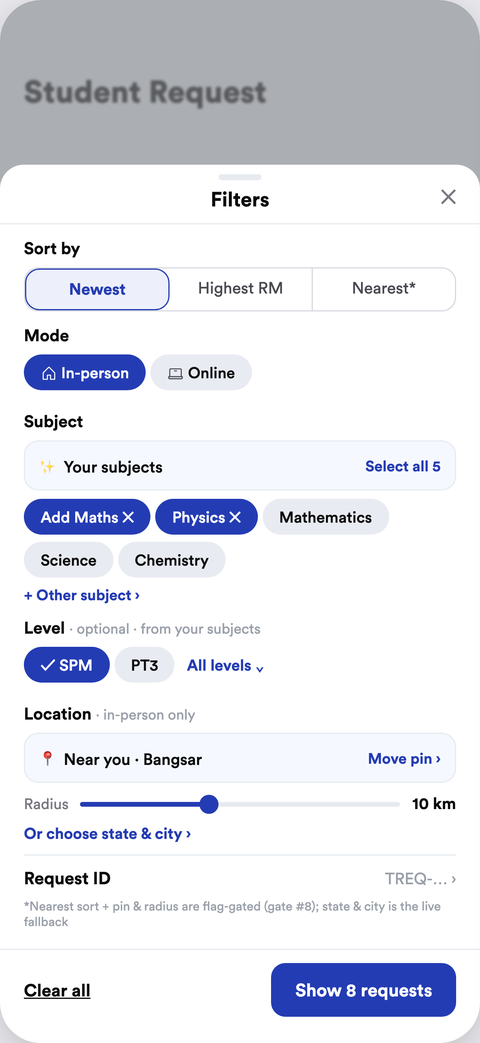
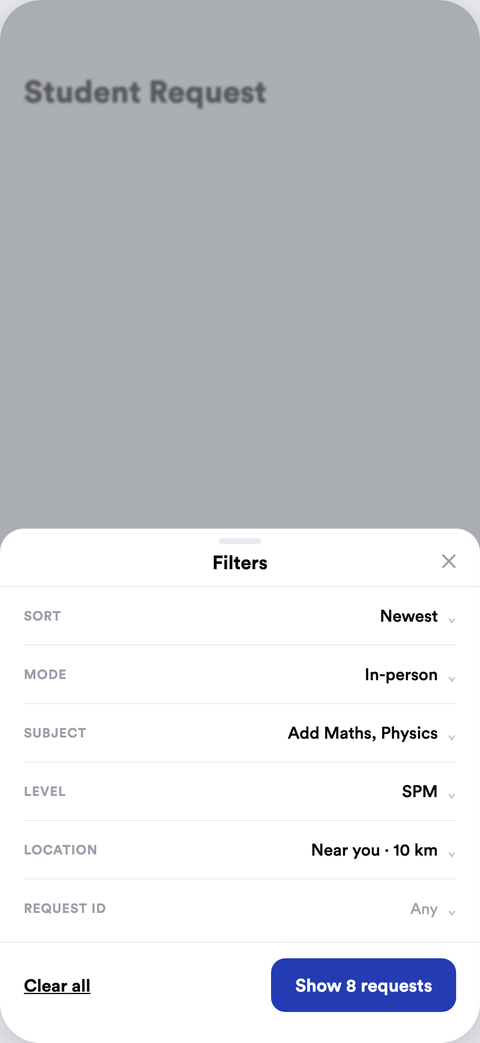
filter v0.32: quiet accordion (browser-passed); ink control surfaces

diff --git a/request-filters-1to1.html b/request-filters-1to1.html
@@ -10,7 +10,7 @@
 .sec{font-size:14px;font-weight:700;margin:11px 0 7px}
 .hint{font-weight:400;color:#9aa0aa;font-size:12px}
 .ch0{font-size:13px;font-weight:500;background:#E9EBF2;border-radius:999px;padding:7px 14px;color:#0b0b0c;display:inline-block;margin:0 4px 6px 0}
-.ch1{font-size:13px;font-weight:500;background:#243cb3;color:#fff;border-radius:999px;padding:7px 14px;display:inline-block;margin:0 4px 6px 0}
+.ch1{font-size:13px;font-weight:500;background:#0b0b0c;color:#fff;border-radius:999px;padding:7px 14px;display:inline-block;margin:0 4px 6px 0}
 .pre{display:flex;justify-content:space-between;align-items:center;background:#F5F9FF;border:1px solid #E7EBF0;border-radius:12px;padding:9px 12px}
 .pre b{font-size:13.5px;font-weight:500}
 .pre span{font-size:12.5px;color:#243cb3;font-weight:700}
@@ -18,45 +18,28 @@
 .dock u{font-size:14.5px;font-weight:700}
 .dock .cta{background:#243cb3;color:#fff;font-size:15px;font-weight:700;border-radius:12px;padding:13px 20px}
 .prow{display:flex;justify-content:space-between;align-items:center;padding:13px 2px;border-bottom:1px solid #E7EBF0;font-size:15px}
-.cbx{width:22px;height:22px;border-radius:6px;background:#243cb3;display:inline-flex;align-items:center;justify-content:center;color:#fff;font-size:13px}
+.cbx{width:22px;height:22px;border-radius:6px;background:#0b0b0c;display:inline-flex;align-items:center;justify-content:center;color:#fff;font-size:13px}
 .cb0{width:22px;height:22px;border-radius:6px;border:1.5px solid #d8dae0;display:inline-block}
+
+.row{display:flex;justify-content:space-between;align-items:center;padding:15px 0;border-bottom:1px solid #EEEFF2}
+.row .lb{font-size:11px;font-weight:700;color:#9aa0aa;text-transform:uppercase;letter-spacing:.05em}
+.row .vl{font-size:14px;font-weight:500;color:#0b0b0c}
+.row .vl small{color:#9aa0aa;font-weight:400;font-size:13px}
+.row .cv{color:#c0c3c9;margin-left:8px;font-size:12px}
+.k1{font-size:13px;font-weight:500;background:#0b0b0c;color:#fff;border-radius:999px;padding:7px 14px;display:inline-block;margin:0 4px 6px 0}
+.k0{font-size:13px;font-weight:500;border:1px solid #d8dae0;border-radius:999px;padding:7px 14px;color:#4a4a52;display:inline-block;margin:0 4px 6px 0}
+.cap{display:flex;justify-content:space-between;align-items:center;margin-bottom:9px}
+.cap span:first-child{font-size:12px;color:#787882}
+.cap span:last-child{font-size:12px;color:#0b0b0c;font-weight:500;text-decoration:underline}
+.lnk{font-size:13px;color:#0b0b0c;font-weight:500;text-decoration:underline}
 </style></head><body>
 
-<span class="framelabel">filter-sheet-full</span>
-<div class="ph">
-<div style="padding:60px 20px;filter:blur(1px);opacity:.5"><div style="font-size:26px;font-weight:800">Student Request</div></div>
-<div style="position:absolute;inset:0;background:rgba(0,0,0,.30);border-radius:34px"></div>
-<div class="sheet">
-<div class="grab"></div>
-<div class="shead"><b>Filters</b><span class="x">&#10005;</span></div>
-<div style="padding:0 20px 8px">
-<div class="sec">Sort by</div>
-<div style="display:flex;border:1px solid #d8dae0;border-radius:12px;font-size:13.5px;text-align:center">
-<div style="flex:1;padding:8px 0;background:#EDEFFA;border:1.5px solid #243cb3;border-radius:12px;font-weight:700;color:#243cb3">Newest</div>
-<div style="flex:1;padding:8px 0;color:#4a4a52">Highest RM</div>
-<div style="flex:1;padding:8px 0;color:#4a4a52;border-left:1px solid #d8dae0">Nearest*</div></div>
-<div class="sec">Mode</div>
-<div><span class="ch1"><svg fill="currentColor" style="width:14px;height:14px;color:#fff;vertical-align:-2.5px" viewBox="0 0 256 256" xmlns="http://www.w3.org/2000/svg"><path d="M219.31,108.68l-80-80a16,16,0,0,0-22.62,0l-80,80A15.87,15.87,0,0,0,32,120v96a8,8,0,0,0,8,8h64a8,8,0,0,0,8-8V160h32v56a8,8,0,0,0,8,8h64a8,8,0,0,0,8-8V120A15.87,15.87,0,0,0,219.31,108.68ZM208,208H160V152a8,8,0,0,0-8-8H104a8,8,0,0,0-8,8v56H48V120l80-80,80,80Z"/></svg> In-person</span><span class="ch0"><svg fill="currentColor" style="width:14px;height:14px;color:#4a4a52;vertical-align:-2.5px" viewBox="0 0 256 256" xmlns="http://www.w3.org/2000/svg"><path d="M232,168h-8V72a24,24,0,0,0-24-24H56A24,24,0,0,0,32,72v96H24a8,8,0,0,0-8,8v16a24,24,0,0,0,24,24H216a24,24,0,0,0,24-24V176A8,8,0,0,0,232,168ZM48,72a8,8,0,0,1,8-8H200a8,8,0,0,1,8,8v96H48ZM224,192a8,8,0,0,1-8,8H40a8,8,0,0,1-8-8v-8H224ZM152,88a8,8,0,0,1-8,8H112a8,8,0,0,1,0-16h32A8,8,0,0,1,152,88Z"/></svg> Online</span></div>
-<div class="sec">Subject</div>
-<div class="pre"><b>&#10024; Your subjects</b><span>Select all 5</span></div>
-<div style="margin-top:7px"><span class="ch1">Add Maths &#10005;</span><span class="ch1">Physics &#10005;</span><span class="ch0">Mathematics</span><span class="ch0">Science</span><span class="ch0">Chemistry</span></div>
-<div style="font-size:12.5px;color:#243cb3;font-weight:700;margin-top:1px">+ Other subject &#8250;</div>
-<div class="sec">Level <span class="hint">· optional · from your subjects</span></div>
-<div><span class="ch1">&#10003; SPM</span><span class="ch0">PT3</span><span style="font-size:13px;color:#243cb3;font-weight:700;padding:7px 6px;display:inline-block">All levels &#8964;</span></div>
-<div class="sec">Location <span class="hint">· in-person only</span></div>
-<div class="pre"><b>&#128205; Near you · Bangsar</b><span>Move pin &#8250;</span></div>
-<div style="display:flex;align-items:center;gap:10px;margin-top:9px">
-<span style="font-size:12.5px;color:#787882">Radius</span>
-<div style="flex:1;height:4px;background:#E7EBF0;border-radius:2px;position:relative"><div style="width:40%;height:4px;background:#243cb3;border-radius:2px"></div><span style="position:absolute;left:40%;top:-6px;width:16px;height:16px;background:#243cb3;border-radius:50%;margin-left:-8px"></span></div>
-<span style="font-size:13.5px;font-weight:700">10 km</span></div>
-<div style="font-size:13px;color:#243cb3;font-weight:700;margin-top:8px">Or choose state &amp; city &#8250;</div>
-<div style="display:flex;justify-content:space-between;align-items:center;padding:10px 0 2px;border-top:1px solid #E7EBF0;margin-top:10px"><span style="font-size:14.5px;font-weight:700">Request ID</span><span style="font-size:13.5px;color:#9aa0aa">TREQ-&#8230; &#8250;</span></div>
-<div style="font-size:10.5px;color:#9aa0aa;margin:6px 0 8px">*Nearest sort + pin &amp; radius are flag-gated (gate #8); state &amp; city is the live fallback</div>
-</div>
-<div class="dock"><u>Clear all</u><span class="cta">Show 8 requests</span></div>
-</div>
-</div>
-
+<span class="framelabel">filter-collapsed</span>
+<div class="ph"><div style="padding:60px 20px;filter:blur(1px);opacity:.5"><div style="font-size:26px;font-weight:800">Student Request</div></div><div style="position:absolute;inset:0;background:rgba(0,0,0,.30);border-radius:34px"></div><div class="sheet"><div style="width:36px;height:5px;background:#E7EBF0;border-radius:99px;margin:8px auto 5px"></div><div style="text-align:center;position:relative;padding:0 0 10px;border-bottom:1px solid #EEEFF2"><b style="font-size:16px;font-weight:700">Filters</b><span style="position:absolute;right:20px;top:-1px;font-size:16px;color:#9aa0aa">&#10005;</span></div><div style="padding:0 20px 4px"><div class="row" style="padding:15px 0"><span class="lb">Sort</span><span class="vl">Newest<span class="cv">&#8964;</span></span></div><div class="row" style="padding:15px 0"><span class="lb">Mode</span><span class="vl">In-person<span class="cv">&#8964;</span></span></div><div class="row" style="padding:15px 0"><span class="lb">Subject</span><span class="vl">Add Maths, Physics<span class="cv">&#8964;</span></span></div><div class="row" style="padding:15px 0"><span class="lb">Level</span><span class="vl">SPM<span class="cv">&#8964;</span></span></div><div class="row" style="padding:15px 0"><span class="lb">Location</span><span class="vl">Near you · 10 km<span class="cv">&#8964;</span></span></div><div class="row" style="padding:15px 0;border-bottom:none"><span class="lb">Request ID</span><span class="vl"><small>Any</small><span class="cv">&#8964;</span></span></div></div><div style="display:flex;justify-content:space-between;align-items:center;border-top:1px solid #EEEFF2;padding:13px 20px 26px;background:#fff;border-radius:0 0 34px 34px"><span style="font-size:14.5px;font-weight:700;text-decoration:underline">Clear all</span><span style="background:#243cb3;color:#fff;font-size:15px;font-weight:700;border-radius:12px;padding:13px 20px">Show 8 requests</span></div></div></div>
+<span class="framelabel">filter-subject-open</span>
+<div class="ph"><div style="padding:60px 20px;filter:blur(1px);opacity:.5"><div style="font-size:26px;font-weight:800">Student Request</div></div><div style="position:absolute;inset:0;background:rgba(0,0,0,.30);border-radius:34px"></div><div class="sheet"><div style="width:36px;height:5px;background:#E7EBF0;border-radius:99px;margin:8px auto 5px"></div><div style="text-align:center;position:relative;padding:0 0 10px;border-bottom:1px solid #EEEFF2"><b style="font-size:16px;font-weight:700">Filters</b><span style="position:absolute;right:20px;top:-1px;font-size:16px;color:#9aa0aa">&#10005;</span></div><div style="padding:0 20px 4px"><div class="row" style="padding:15px 0"><span class="lb">Sort</span><span class="vl">Newest<span class="cv">&#8964;</span></span></div><div class="row" style="padding:15px 0"><span class="lb">Mode</span><span class="vl">In-person<span class="cv">&#8964;</span></span></div><div class="row" style="border-bottom:none"><span class="lb">Subject</span><span class="vl"><span class="cv">&#8963;</span></span></div><div style="padding:0 0 14px;border-bottom:1px solid #EEEFF2"><div class="cap"><span>Your subjects</span><span>Select all 5</span></div><span class="k1">Add Maths &#10005;</span><span class="k1">Physics &#10005;</span><span class="k0">Mathematics</span><span class="k0">Science</span><span class="k0">Chemistry</span><div style="margin-top:4px"><span class="lnk">Other subject</span></div></div><div class="row" style="padding:15px 0"><span class="lb">Level</span><span class="vl">SPM<span class="cv">&#8964;</span></span></div><div class="row" style="padding:15px 0"><span class="lb">Location</span><span class="vl">Near you · 10 km<span class="cv">&#8964;</span></span></div><div class="row" style="padding:15px 0;border-bottom:none"><span class="lb">Request ID</span><span class="vl"><small>Any</small><span class="cv">&#8964;</span></span></div></div><div style="display:flex;justify-content:space-between;align-items:center;border-top:1px solid #EEEFF2;padding:13px 20px 26px;background:#fff;border-radius:0 0 34px 34px"><span style="font-size:14.5px;font-weight:700;text-decoration:underline">Clear all</span><span style="background:#243cb3;color:#fff;font-size:15px;font-weight:700;border-radius:12px;padding:13px 20px">Show 8 requests</span></div></div></div>
+<span class="framelabel">filter-location-open</span>
+<div class="ph"><div style="padding:60px 20px;filter:blur(1px);opacity:.5"><div style="font-size:26px;font-weight:800">Student Request</div></div><div style="position:absolute;inset:0;background:rgba(0,0,0,.30);border-radius:34px"></div><div class="sheet"><div style="width:36px;height:5px;background:#E7EBF0;border-radius:99px;margin:8px auto 5px"></div><div style="text-align:center;position:relative;padding:0 0 10px;border-bottom:1px solid #EEEFF2"><b style="font-size:16px;font-weight:700">Filters</b><span style="position:absolute;right:20px;top:-1px;font-size:16px;color:#9aa0aa">&#10005;</span></div><div style="padding:0 20px 4px"><div class="row" style="padding:15px 0"><span class="lb">Sort</span><span class="vl">Newest<span class="cv">&#8964;</span></span></div><div class="row" style="padding:15px 0"><span class="lb">Mode</span><span class="vl">In-person<span class="cv">&#8964;</span></span></div><div class="row" style="padding:15px 0"><span class="lb">Subject</span><span class="vl">Add Maths, Physics<span class="cv">&#8964;</span></span></div><div class="row" style="padding:15px 0"><span class="lb">Level</span><span class="vl">SPM<span class="cv">&#8964;</span></span></div><div class="row" style="border-bottom:none"><span class="lb">Location</span><span class="vl"><span class="cv">&#8963;</span></span></div><div style="padding:0 0 14px;border-bottom:1px solid #EEEFF2"><div class="cap"><span>&#128205; Near you · Bangsar</span><span>Move pin</span></div><div style="display:flex;align-items:center;gap:10px;margin-top:4px"><span style="font-size:12.5px;color:#787882">Radius</span><div style="flex:1;height:4px;background:#EEEFF2;border-radius:2px;position:relative"><div style="width:40%;height:4px;background:#0b0b0c;border-radius:2px"></div><span style="position:absolute;left:40%;top:-6px;width:16px;height:16px;background:#0b0b0c;border-radius:50%;margin-left:-8px"></span></div><span style="font-size:13.5px;font-weight:700">10 km</span></div><div style="margin-top:10px"><span class="lnk">Or choose state &amp; city</span></div></div><div class="row" style="padding:15px 0;border-bottom:none"><span class="lb">Request ID</span><span class="vl"><small>Any</small><span class="cv">&#8964;</span></span></div></div><div style="display:flex;justify-content:space-between;align-items:center;border-top:1px solid #EEEFF2;padding:13px 20px 26px;background:#fff;border-radius:0 0 34px 34px"><span style="font-size:14.5px;font-weight:700;text-decoration:underline">Clear all</span><span style="background:#243cb3;color:#fff;font-size:15px;font-weight:700;border-radius:12px;padding:13px 20px">Show 8 requests</span></div></div></div>
 <span class="framelabel">filter-subject-picker</span>
 <div class="ph">
 <div style="padding:60px 20px;filter:blur(1px);opacity:.5"><div style="font-size:26px;font-weight:800">Student Request</div></div>
@@ -99,7 +82,7 @@
 <div style="position:absolute;left:12%;top:70%;width:60%;height:3px;background:#fff;transform:rotate(4deg)"></div>
 <div style="position:absolute;left:50%;top:50%;width:210px;height:210px;border:2px solid #243cb3;background:rgba(36,60,179,.10);border-radius:50%;transform:translate(-50%,-50%)"></div>
 <svg fill="currentColor" style="width:38px;height:38px;color:#243cb3;position:absolute;left:50%;top:50%;transform:translate(-50%,-92%)" viewBox="0 0 256 256" xmlns="http://www.w3.org/2000/svg"><path d="M128,16a88.1,88.1,0,0,0-88,88c0,75.3,80,132.17,83.41,134.55a8,8,0,0,0,9.18,0C136,236.17,216,179.3,216,104A88.1,88.1,0,0,0,128,16Zm0,56a32,32,0,1,1-32,32A32,32,0,0,1,128,72Z"/></svg>
-<span style="position:absolute;right:12px;bottom:12px;background:#fff;border-radius:10px;padding:8px 12px;font-size:12.5px;font-weight:700;color:#243cb3;box-shadow:0 2px 8px rgba(0,0,0,.12)">&#8982; Use my location</span>
+<span style="position:absolute;right:12px;bottom:12px;background:#fff;border-radius:10px;padding:8px 12px;font-size:12.5px;font-weight:700;color:#0b0b0c;box-shadow:0 2px 8px rgba(0,0,0,.12)">&#8982; Use my location</span>
 </div>
 <div style="padding:14px 20px 8px">
 <div style="font-size:13.5px;color:#4a4a52">Drag the pin or search an area</div>
@@ -108,7 +91,7 @@
 <span style="font-size:14px">Bangsar, Kuala Lumpur</span></div>
 <div style="display:flex;align-items:center;gap:10px;margin-top:13px">
 <span style="font-size:12.5px;color:#787882">Radius</span>
-<div style="flex:1;height:4px;background:#E7EBF0;border-radius:2px;position:relative"><div style="width:40%;height:4px;background:#243cb3;border-radius:2px"></div><span style="position:absolute;left:40%;top:-6px;width:16px;height:16px;background:#243cb3;border-radius:50%;margin-left:-8px"></span></div>
+<div style="flex:1;height:4px;background:#E7EBF0;border-radius:2px;position:relative"><div style="width:40%;height:4px;background:#0b0b0c;border-radius:2px"></div><span style="position:absolute;left:40%;top:-6px;width:16px;height:16px;background:#0b0b0c;border-radius:50%;margin-left:-8px"></span></div>
 <span style="font-size:13.5px;font-weight:700">10 km</span></div>
 <div style="margin-top:10px"><span class="ch0">5 km</span><span class="ch1">&#10003; 10 km</span><span class="ch0">20 km</span><span class="ch0">50 km</span></div>
 </div>

diff --git a/wave1-request-filters.html b/wave1-request-filters.html
@@ -10,7 +10,7 @@
 .sec{font-size:14px;font-weight:700;margin:11px 0 7px}
 .hint{font-weight:400;color:#9aa0aa;font-size:12px}
 .ch0{font-size:13px;font-weight:500;background:#E9EBF2;border-radius:999px;padding:7px 14px;color:#0b0b0c;display:inline-block;margin:0 4px 6px 0}
-.ch1{font-size:13px;font-weight:500;background:#243cb3;color:#fff;border-radius:999px;padding:7px 14px;display:inline-block;margin:0 4px 6px 0}
+.ch1{font-size:13px;font-weight:500;background:#0b0b0c;color:#fff;border-radius:999px;padding:7px 14px;display:inline-block;margin:0 4px 6px 0}
 .pre{display:flex;justify-content:space-between;align-items:center;background:#F5F9FF;border:1px solid #E7EBF0;border-radius:12px;padding:9px 12px}
 .pre b{font-size:13.5px;font-weight:500}
 .pre span{font-size:12.5px;color:#243cb3;font-weight:700}
@@ -18,45 +18,28 @@
 .dock u{font-size:14.5px;font-weight:700}
 .dock .cta{background:#243cb3;color:#fff;font-size:15px;font-weight:700;border-radius:12px;padding:13px 20px}
 .prow{display:flex;justify-content:space-between;align-items:center;padding:13px 2px;border-bottom:1px solid #E7EBF0;font-size:15px}
-.cbx{width:22px;height:22px;border-radius:6px;background:#243cb3;display:inline-flex;align-items:center;justify-content:center;color:#fff;font-size:13px}
+.cbx{width:22px;height:22px;border-radius:6px;background:#0b0b0c;display:inline-flex;align-items:center;justify-content:center;color:#fff;font-size:13px}
 .cb0{width:22px;height:22px;border-radius:6px;border:1.5px solid #d8dae0;display:inline-block}
+
+.row{display:flex;justify-content:space-between;align-items:center;padding:15px 0;border-bottom:1px solid #EEEFF2}
+.row .lb{font-size:11px;font-weight:700;color:#9aa0aa;text-transform:uppercase;letter-spacing:.05em}
+.row .vl{font-size:14px;font-weight:500;color:#0b0b0c}
+.row .vl small{color:#9aa0aa;font-weight:400;font-size:13px}
+.row .cv{color:#c0c3c9;margin-left:8px;font-size:12px}
+.k1{font-size:13px;font-weight:500;background:#0b0b0c;color:#fff;border-radius:999px;padding:7px 14px;display:inline-block;margin:0 4px 6px 0}
+.k0{font-size:13px;font-weight:500;border:1px solid #d8dae0;border-radius:999px;padding:7px 14px;color:#4a4a52;display:inline-block;margin:0 4px 6px 0}
+.cap{display:flex;justify-content:space-between;align-items:center;margin-bottom:9px}
+.cap span:first-child{font-size:12px;color:#787882}
+.cap span:last-child{font-size:12px;color:#0b0b0c;font-weight:500;text-decoration:underline}
+.lnk{font-size:13px;color:#0b0b0c;font-weight:500;text-decoration:underline}
 </style></head><body>
 
-<span class="framelabel">filter-sheet-full</span>
-<div class="ph">
-<div style="padding:60px 20px;filter:blur(1px);opacity:.5"><div style="font-size:26px;font-weight:800">Student Request</div></div>
-<div style="position:absolute;inset:0;background:rgba(0,0,0,.30);border-radius:34px"></div>
-<div class="sheet">
-<div class="grab"></div>
-<div class="shead"><b>Filters</b><span class="x">&#10005;</span></div>
-<div style="padding:0 20px 8px">
-<div class="sec">Sort by</div>
-<div style="display:flex;border:1px solid #d8dae0;border-radius:12px;font-size:13.5px;text-align:center">
-<div style="flex:1;padding:8px 0;background:#EDEFFA;border:1.5px solid #243cb3;border-radius:12px;font-weight:700;color:#243cb3">Newest</div>
-<div style="flex:1;padding:8px 0;color:#4a4a52">Highest RM</div>
-<div style="flex:1;padding:8px 0;color:#4a4a52;border-left:1px solid #d8dae0">Nearest*</div></div>
-<div class="sec">Mode</div>
-<div><span class="ch1"><svg fill="currentColor" style="width:14px;height:14px;color:#fff;vertical-align:-2.5px" viewBox="0 0 256 256" xmlns="http://www.w3.org/2000/svg"><path d="M219.31,108.68l-80-80a16,16,0,0,0-22.62,0l-80,80A15.87,15.87,0,0,0,32,120v96a8,8,0,0,0,8,8h64a8,8,0,0,0,8-8V160h32v56a8,8,0,0,0,8,8h64a8,8,0,0,0,8-8V120A15.87,15.87,0,0,0,219.31,108.68ZM208,208H160V152a8,8,0,0,0-8-8H104a8,8,0,0,0-8,8v56H48V120l80-80,80,80Z"/></svg> In-person</span><span class="ch0"><svg fill="currentColor" style="width:14px;height:14px;color:#4a4a52;vertical-align:-2.5px" viewBox="0 0 256 256" xmlns="http://www.w3.org/2000/svg"><path d="M232,168h-8V72a24,24,0,0,0-24-24H56A24,24,0,0,0,32,72v96H24a8,8,0,0,0-8,8v16a24,24,0,0,0,24,24H216a24,24,0,0,0,24-24V176A8,8,0,0,0,232,168ZM48,72a8,8,0,0,1,8-8H200a8,8,0,0,1,8,8v96H48ZM224,192a8,8,0,0,1-8,8H40a8,8,0,0,1-8-8v-8H224ZM152,88a8,8,0,0,1-8,8H112a8,8,0,0,1,0-16h32A8,8,0,0,1,152,88Z"/></svg> Online</span></div>
-<div class="sec">Subject</div>
-<div class="pre"><b>&#10024; Your subjects</b><span>Select all 5</span></div>
-<div style="margin-top:7px"><span class="ch1">Add Maths &#10005;</span><span class="ch1">Physics &#10005;</span><span class="ch0">Mathematics</span><span class="ch0">Science</span><span class="ch0">Chemistry</span></div>
-<div style="font-size:12.5px;color:#243cb3;font-weight:700;margin-top:1px">+ Other subject &#8250;</div>
-<div class="sec">Level <span class="hint">· optional · from your subjects</span></div>
-<div><span class="ch1">&#10003; SPM</span><span class="ch0">PT3</span><span style="font-size:13px;color:#243cb3;font-weight:700;padding:7px 6px;display:inline-block">All levels &#8964;</span></div>
-<div class="sec">Location <span class="hint">· in-person only</span></div>
-<div class="pre"><b>&#128205; Near you · Bangsar</b><span>Move pin &#8250;</span></div>
-<div style="display:flex;align-items:center;gap:10px;margin-top:9px">
-<span style="font-size:12.5px;color:#787882">Radius</span>
-<div style="flex:1;height:4px;background:#E7EBF0;border-radius:2px;position:relative"><div style="width:40%;height:4px;background:#243cb3;border-radius:2px"></div><span style="position:absolute;left:40%;top:-6px;width:16px;height:16px;background:#243cb3;border-radius:50%;margin-left:-8px"></span></div>
-<span style="font-size:13.5px;font-weight:700">10 km</span></div>
-<div style="font-size:13px;color:#243cb3;font-weight:700;margin-top:8px">Or choose state &amp; city &#8250;</div>
-<div style="display:flex;justify-content:space-between;align-items:center;padding:10px 0 2px;border-top:1px solid #E7EBF0;margin-top:10px"><span style="font-size:14.5px;font-weight:700">Request ID</span><span style="font-size:13.5px;color:#9aa0aa">TREQ-&#8230; &#8250;</span></div>
-<div style="font-size:10.5px;color:#9aa0aa;margin:6px 0 8px">*Nearest sort + pin &amp; radius are flag-gated (gate #8); state &amp; city is the live fallback</div>
-</div>
-<div class="dock"><u>Clear all</u><span class="cta">Show 8 requests</span></div>
-</div>
-</div>
-
+<span class="framelabel">filter-collapsed</span>
+<div class="ph"><div style="padding:60px 20px;filter:blur(1px);opacity:.5"><div style="font-size:26px;font-weight:800">Student Request</div></div><div style="position:absolute;inset:0;background:rgba(0,0,0,.30);border-radius:34px"></div><div class="sheet"><div style="width:36px;height:5px;background:#E7EBF0;border-radius:99px;margin:8px auto 5px"></div><div style="text-align:center;position:relative;padding:0 0 10px;border-bottom:1px solid #EEEFF2"><b style="font-size:16px;font-weight:700">Filters</b><span style="position:absolute;right:20px;top:-1px;font-size:16px;color:#9aa0aa">&#10005;</span></div><div style="padding:0 20px 4px"><div class="row" style="padding:15px 0"><span class="lb">Sort</span><span class="vl">Newest<span class="cv">&#8964;</span></span></div><div class="row" style="padding:15px 0"><span class="lb">Mode</span><span class="vl">In-person<span class="cv">&#8964;</span></span></div><div class="row" style="padding:15px 0"><span class="lb">Subject</span><span class="vl">Add Maths, Physics<span class="cv">&#8964;</span></span></div><div class="row" style="padding:15px 0"><span class="lb">Level</span><span class="vl">SPM<span class="cv">&#8964;</span></span></div><div class="row" style="padding:15px 0"><span class="lb">Location</span><span class="vl">Near you · 10 km<span class="cv">&#8964;</span></span></div><div class="row" style="padding:15px 0;border-bottom:none"><span class="lb">Request ID</span><span class="vl"><small>Any</small><span class="cv">&#8964;</span></span></div></div><div style="display:flex;justify-content:space-between;align-items:center;border-top:1px solid #EEEFF2;padding:13px 20px 26px;background:#fff;border-radius:0 0 34px 34px"><span style="font-size:14.5px;font-weight:700;text-decoration:underline">Clear all</span><span style="background:#243cb3;color:#fff;font-size:15px;font-weight:700;border-radius:12px;padding:13px 20px">Show 8 requests</span></div></div></div>
+<span class="framelabel">filter-subject-open</span>
+<div class="ph"><div style="padding:60px 20px;filter:blur(1px);opacity:.5"><div style="font-size:26px;font-weight:800">Student Request</div></div><div style="position:absolute;inset:0;background:rgba(0,0,0,.30);border-radius:34px"></div><div class="sheet"><div style="width:36px;height:5px;background:#E7EBF0;border-radius:99px;margin:8px auto 5px"></div><div style="text-align:center;position:relative;padding:0 0 10px;border-bottom:1px solid #EEEFF2"><b style="font-size:16px;font-weight:700">Filters</b><span style="position:absolute;right:20px;top:-1px;font-size:16px;color:#9aa0aa">&#10005;</span></div><div style="padding:0 20px 4px"><div class="row" style="padding:15px 0"><span class="lb">Sort</span><span class="vl">Newest<span class="cv">&#8964;</span></span></div><div class="row" style="padding:15px 0"><span class="lb">Mode</span><span class="vl">In-person<span class="cv">&#8964;</span></span></div><div class="row" style="border-bottom:none"><span class="lb">Subject</span><span class="vl"><span class="cv">&#8963;</span></span></div><div style="padding:0 0 14px;border-bottom:1px solid #EEEFF2"><div class="cap"><span>Your subjects</span><span>Select all 5</span></div><span class="k1">Add Maths &#10005;</span><span class="k1">Physics &#10005;</span><span class="k0">Mathematics</span><span class="k0">Science</span><span class="k0">Chemistry</span><div style="margin-top:4px"><span class="lnk">Other subject</span></div></div><div class="row" style="padding:15px 0"><span class="lb">Level</span><span class="vl">SPM<span class="cv">&#8964;</span></span></div><div class="row" style="padding:15px 0"><span class="lb">Location</span><span class="vl">Near you · 10 km<span class="cv">&#8964;</span></span></div><div class="row" style="padding:15px 0;border-bottom:none"><span class="lb">Request ID</span><span class="vl"><small>Any</small><span class="cv">&#8964;</span></span></div></div><div style="display:flex;justify-content:space-between;align-items:center;border-top:1px solid #EEEFF2;padding:13px 20px 26px;background:#fff;border-radius:0 0 34px 34px"><span style="font-size:14.5px;font-weight:700;text-decoration:underline">Clear all</span><span style="background:#243cb3;color:#fff;font-size:15px;font-weight:700;border-radius:12px;padding:13px 20px">Show 8 requests</span></div></div></div>
+<span class="framelabel">filter-location-open</span>
+<div class="ph"><div style="padding:60px 20px;filter:blur(1px);opacity:.5"><div style="font-size:26px;font-weight:800">Student Request</div></div><div style="position:absolute;inset:0;background:rgba(0,0,0,.30);border-radius:34px"></div><div class="sheet"><div style="width:36px;height:5px;background:#E7EBF0;border-radius:99px;margin:8px auto 5px"></div><div style="text-align:center;position:relative;padding:0 0 10px;border-bottom:1px solid #EEEFF2"><b style="font-size:16px;font-weight:700">Filters</b><span style="position:absolute;right:20px;top:-1px;font-size:16px;color:#9aa0aa">&#10005;</span></div><div style="padding:0 20px 4px"><div class="row" style="padding:15px 0"><span class="lb">Sort</span><span class="vl">Newest<span class="cv">&#8964;</span></span></div><div class="row" style="padding:15px 0"><span class="lb">Mode</span><span class="vl">In-person<span class="cv">&#8964;</span></span></div><div class="row" style="padding:15px 0"><span class="lb">Subject</span><span class="vl">Add Maths, Physics<span class="cv">&#8964;</span></span></div><div class="row" style="padding:15px 0"><span class="lb">Level</span><span class="vl">SPM<span class="cv">&#8964;</span></span></div><div class="row" style="border-bottom:none"><span class="lb">Location</span><span class="vl"><span class="cv">&#8963;</span></span></div><div style="padding:0 0 14px;border-bottom:1px solid #EEEFF2"><div class="cap"><span>&#128205; Near you · Bangsar</span><span>Move pin</span></div><div style="display:flex;align-items:center;gap:10px;margin-top:4px"><span style="font-size:12.5px;color:#787882">Radius</span><div style="flex:1;height:4px;background:#EEEFF2;border-radius:2px;position:relative"><div style="width:40%;height:4px;background:#0b0b0c;border-radius:2px"></div><span style="position:absolute;left:40%;top:-6px;width:16px;height:16px;background:#0b0b0c;border-radius:50%;margin-left:-8px"></span></div><span style="font-size:13.5px;font-weight:700">10 km</span></div><div style="margin-top:10px"><span class="lnk">Or choose state &amp; city</span></div></div><div class="row" style="padding:15px 0;border-bottom:none"><span class="lb">Request ID</span><span class="vl"><small>Any</small><span class="cv">&#8964;</span></span></div></div><div style="display:flex;justify-content:space-between;align-items:center;border-top:1px solid #EEEFF2;padding:13px 20px 26px;background:#fff;border-radius:0 0 34px 34px"><span style="font-size:14.5px;font-weight:700;text-decoration:underline">Clear all</span><span style="background:#243cb3;color:#fff;font-size:15px;font-weight:700;border-radius:12px;padding:13px 20px">Show 8 requests</span></div></div></div>
 <span class="framelabel">filter-subject-picker</span>
 <div class="ph">
 <div style="padding:60px 20px;filter:blur(1px);opacity:.5"><div style="font-size:26px;font-weight:800">Student Request</div></div>
@@ -99,7 +82,7 @@
 <div style="position:absolute;left:12%;top:70%;width:60%;height:3px;background:#fff;transform:rotate(4deg)"></div>
 <div style="position:absolute;left:50%;top:50%;width:210px;height:210px;border:2px solid #243cb3;background:rgba(36,60,179,.10);border-radius:50%;transform:translate(-50%,-50%)"></div>
 <svg fill="currentColor" style="width:38px;height:38px;color:#243cb3;position:absolute;left:50%;top:50%;transform:translate(-50%,-92%)" viewBox="0 0 256 256" xmlns="http://www.w3.org/2000/svg"><path d="M128,16a88.1,88.1,0,0,0-88,88c0,75.3,80,132.17,83.41,134.55a8,8,0,0,0,9.18,0C136,236.17,216,179.3,216,104A88.1,88.1,0,0,0,128,16Zm0,56a32,32,0,1,1-32,32A32,32,0,0,1,128,72Z"/></svg>
-<span style="position:absolute;right:12px;bottom:12px;background:#fff;border-radius:10px;padding:8px 12px;font-size:12.5px;font-weight:700;color:#243cb3;box-shadow:0 2px 8px rgba(0,0,0,.12)">&#8982; Use my location</span>
+<span style="position:absolute;right:12px;bottom:12px;background:#fff;border-radius:10px;padding:8px 12px;font-size:12.5px;font-weight:700;color:#0b0b0c;box-shadow:0 2px 8px rgba(0,0,0,.12)">&#8982; Use my location</span>
 </div>
 <div style="padding:14px 20px 8px">
 <div style="font-size:13.5px;color:#4a4a52">Drag the pin or search an area</div>
@@ -108,7 +91,7 @@
 <span style="font-size:14px">Bangsar, Kuala Lumpur</span></div>
 <div style="display:flex;align-items:center;gap:10px;margin-top:13px">
 <span style="font-size:12.5px;color:#787882">Radius</span>
-<div style="flex:1;height:4px;background:#E7EBF0;border-radius:2px;position:relative"><div style="width:40%;height:4px;background:#243cb3;border-radius:2px"></div><span style="position:absolute;left:40%;top:-6px;width:16px;height:16px;background:#243cb3;border-radius:50%;margin-left:-8px"></span></div>
+<div style="flex:1;height:4px;background:#E7EBF0;border-radius:2px;position:relative"><div style="width:40%;height:4px;background:#0b0b0c;border-radius:2px"></div><span style="position:absolute;left:40%;top:-6px;width:16px;height:16px;background:#0b0b0c;border-radius:50%;margin-left:-8px"></span></div>
 <span style="font-size:13.5px;font-weight:700">10 km</span></div>
 <div style="margin-top:10px"><span class="ch0">5 km</span><span class="ch1">&#10003; 10 km</span><span class="ch0">20 km</span><span class="ch0">50 km</span></div>
 </div>

diff --git a/tutor-screens-data.js b/tutor-screens-data.js
@@ -61,7 +61,7 @@ window.TUTOR_CATS = [
       {n:"RecommendedRequestDetail", s:"pass", m:"request-detail-1to1.html", d:"Recommended request — now an EXACT alias of RequestDetails (the carousel became the Similar-requests link, killing its only delta); build should collapse it onto the shared body"},
       {n:"SharedRequestDetail", s:"deprecated", d:"NOT a screen — CORRECTED 04-Jul-2026: an ORPHANED extraction (imported nowhere; the 4 screens carry duplicated ~800-line bodies). Ready-made skeleton the build should wire all 4 screens through (props already right: showApply/showShare/showComment/showAddress)"},
       {n:"TutorAppliedRequestDetails", s:"pass", m:"wave1-applied-detail.html", d:"Applied request — B-final template, read-only delta: no comment/Apply/share dock; student address unlocks on approved + in-person (post-match unlock model); fix: reads studentGender (camelCase typo), gender renders blank today; variant frame pending"},
-      {n:"RequestFilters", s:"pass", m:"request-filters-1to1.html", d:"RE-LOCKED 04-Jul-2026 (hub v0.30, founder eyeball passed): G4 bottom sheet; Sort segmented CONCLUDED: Newest default / Highest RM / Nearest* (Best match excluded: fit is a match line, never a ranking); Mode chips; DECOUPLED Subject = 135 plain deduped names (no level prefixes; name -> all matching subject_ids; zero backend change) + your-subjects preset (tutor_subjects); Level = YOUR levels default (derived from tutor_subjects) + All-levels expand-in-place; same 2-row +N overflow rule as Subject; Location = pin + radius w/ map sub-sheet (*flag-gated Hafiz gate #8; state/city fallback); Request ID; Clear all + live-count dock; chips per the Lane B FilterChips lock; persistence + funnel badge; verified 1:1 (3 frames)"}
+      {n:"RequestFilters", s:"pass", m:"request-filters-1to1.html", d:"RE-LOCKED 04-Jul-2026 (hub v0.30, founder eyeball passed): G4 bottom sheet; Sort segmented CONCLUDED: Newest default / Highest RM / Nearest* (Best match excluded: fit is a match line, never a ranking); Mode chips; DECOUPLED Subject = 135 plain deduped names (no level prefixes; name -> all matching subject_ids; zero backend change) + your-subjects preset (tutor_subjects); Level = YOUR levels default (derived from tutor_subjects) + All-levels expand-in-place; same 2-row +N overflow rule as Subject; Location = pin + radius w/ map sub-sheet (*flag-gated Hafiz gate #8; state/city fallback); Request ID; Clear all + live-count dock; persistence + funnel badge. SUPERSEDED v0.32 (founder browser-pass): QUIET ACCORDION - collapsed value-summary rows (eyebrow label / value-anchored), one-open-at-a-time, de-boxed quiet skin; ink selected states on control surfaces (indigo = the one dock CTA; scoped amendment to indigo-selected); verified 1:1 (5 frames)"}
       ,{n:"ApplyConfirmSheet", s:"briefed", d:"NEW SUB-SURFACE 03-Jul-2026: tap Apply -> confirm sheet; request recap + optional 300-char note to the parent (comment relocated off the detail page); Confirm/Cancel; draft approved, 1:1 pending"}
       ,{n:"SubjectPicker", s:"pass", m:"request-filters-1to1.html", d:"NEW SUB-SURFACE: + Other subject picker; 135 deduped plain names A-Z, search, your-subjects section, Done-commits dock; NO level tags (decoupled grammar); verified 1:1 (frame 2)"}
       ,{n:"LocationPinSheet", s:"pass", m:"request-filters-1to1.html", d:"NEW SUB-SURFACE: Move-pin map sub-sheet; draggable pin + radius ring, presets 5/10/20/50 km, Use my location, area search, Save-area CTA w/ live count; flag-gated on Hafiz gate #8; verified 1:1 (frame 3)"},
